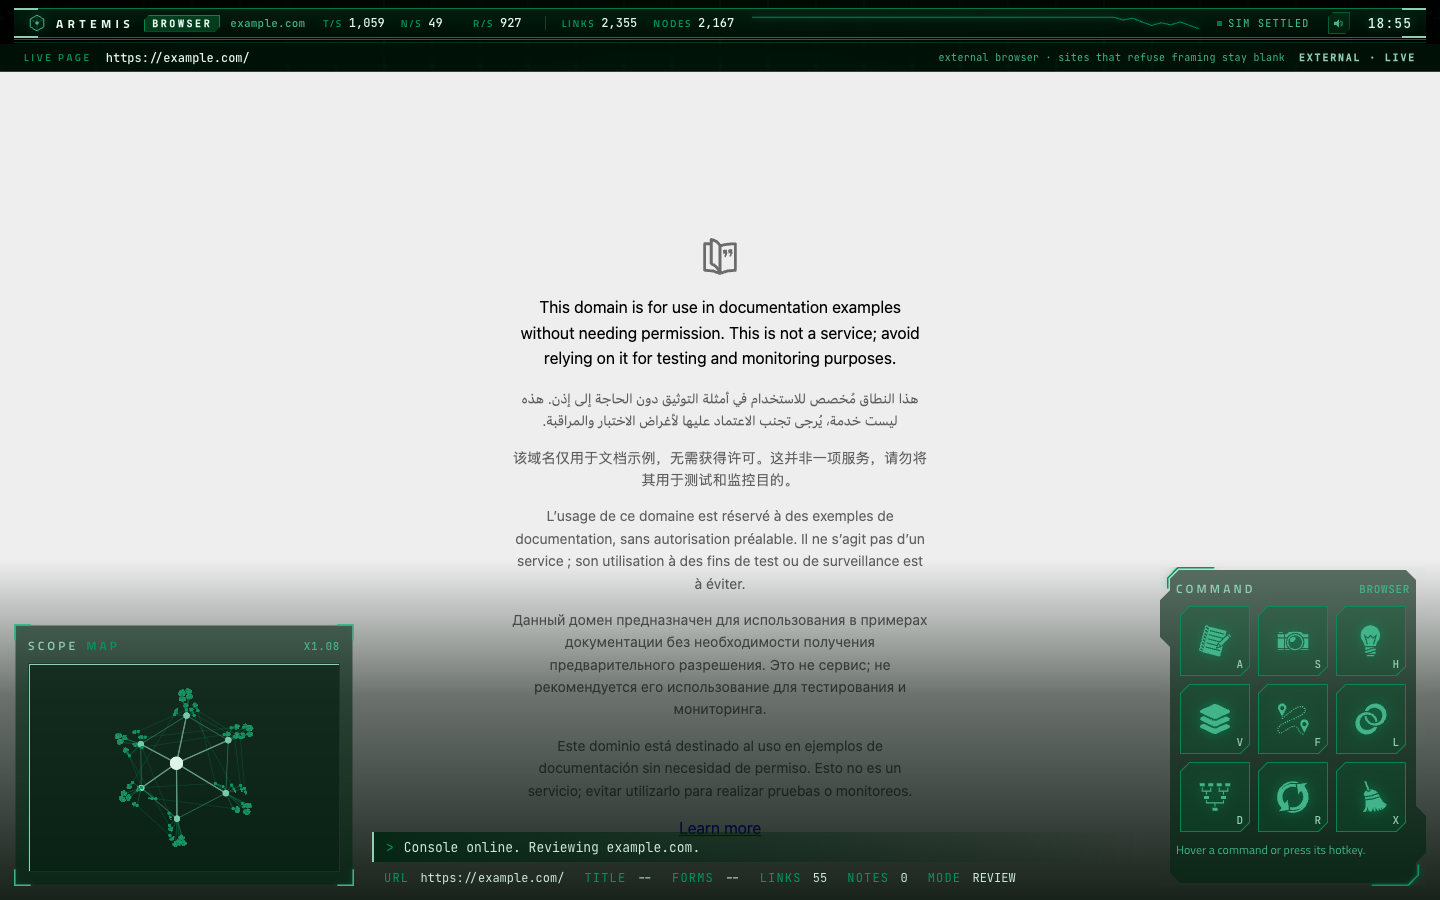
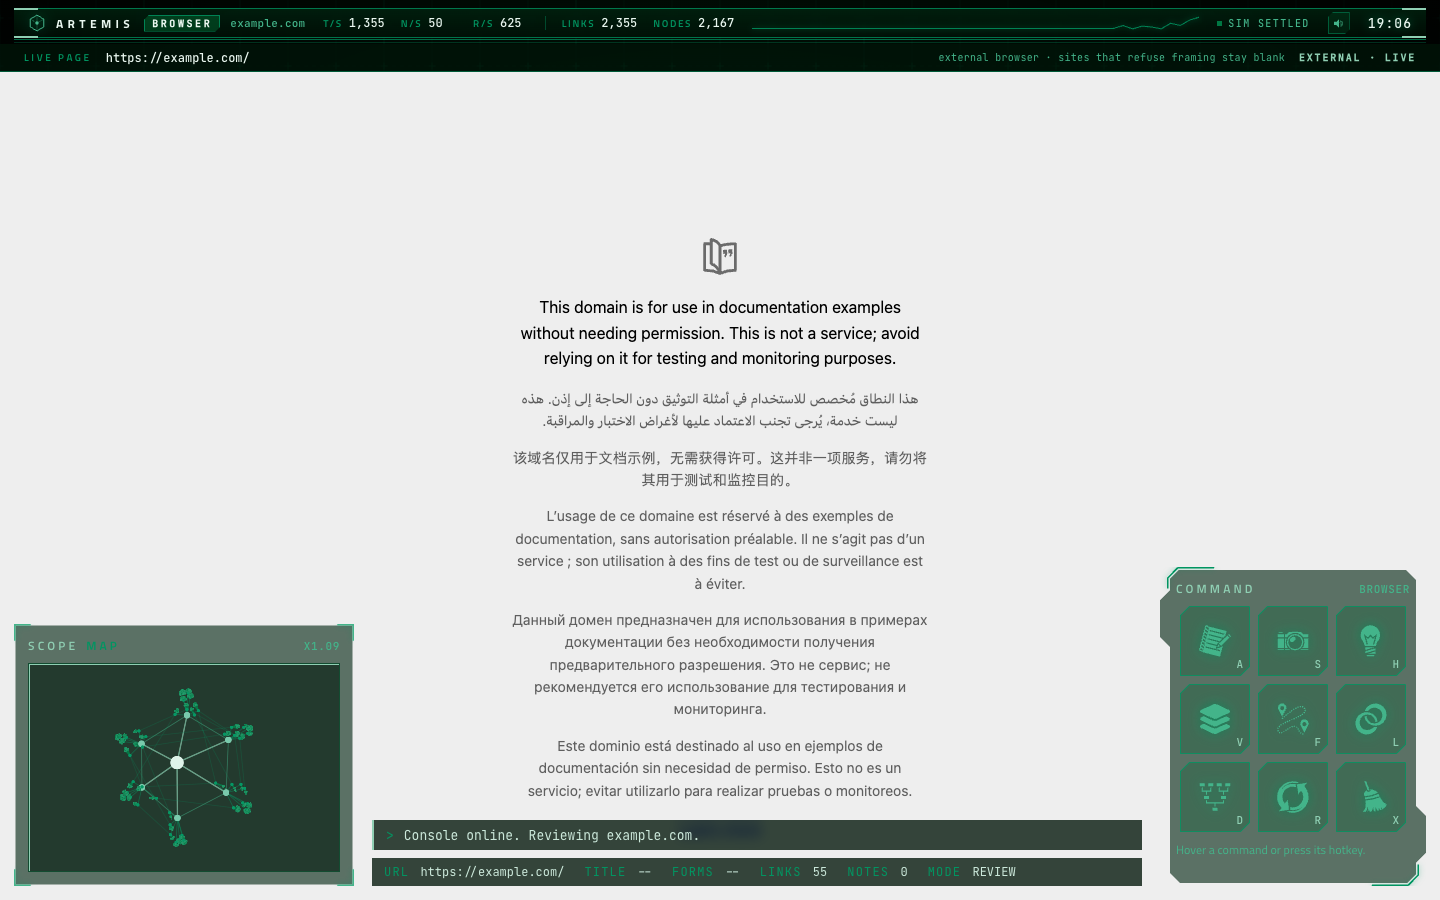
Browser view: no scrim over the page; framed sites navigate
- remove the full-width bottom scrim; the console status/readouts get their own glass in the Browser view so the page beneath stays visible and usable
- owned browser frame agent: retarget _top/_parent/_blank links and forms (incl. <base target>) and window.open(_top) at the frame, since the sandbox blocks top navigation and sites switch to it when framed
- redirects for framed documents are replayed as frame navigations (Chromium does not route the follow-up request), carrying the redirect's cookies, so each hop is rewritten and the frame lands on the final address
- test: _top link, _blank link through a 302, no extra window; verified on google.com (Gmail link through two redirects)

Changed region(s): [[0.0, 0.6533, 1.0, 1.0], [0.7812, 0.0, 0.8125, 0.0311]]

diff --git a/server/owned-browser.ts b/server/owned-browser.ts
@@ -58,8 +58,23 @@ export async function unframe(route: Route, request: Request): Promise<void> {
   }
   if (!inSubFrame) return route.continue();
 
-  const response = await route.fetch();
+  // Redirects: Chromium does not send the request that follows a redirect back through this
+  // handler, so the final page would arrive unrewritten and be blocked. Instead answer the hop
+  // with a page that performs the redirect itself (keeping any cookies the redirect set); the
+  // follow-up is then a fresh navigation this handler sees.
+  const response = await route.fetch({ maxRedirects: 0 });
   const headers = response.headers();
+  if (headers['set-cookie']) {
+    headers['set-cookie'] = headers['set-cookie'].split('\n').map(crossSiteCookie).join('\n');
+  }
+  if (response.status() >= 300 && response.status() < 400 && headers['location']) {
+    const target = new URL(headers['location'], request.url()).href;
+    const hop: Record<string, string> = { 'content-type': 'text/html; charset=utf-8', 'cache-control': 'no-store' };
+    if (headers['set-cookie']) hop['set-cookie'] = headers['set-cookie'];
+    const safe = target.replace(/[&<>"']/g, (c) => `&#${c.charCodeAt(0)};`);
+    const body = `<!doctype html><meta charset="utf-8"><script>location.replace(${JSON.stringify(target)})</script><noscript><meta http-equiv="refresh" content="0; url=${safe}"></noscript>`;
+    return route.fulfill({ status: 200, headers: hop, body });
+  }
   delete headers['x-frame-options'];
   for (const name of ['content-security-policy', 'content-security-policy-report-only']) {
     if (headers[name] !== undefined) {
@@ -67,9 +82,6 @@ export async function unframe(route: Route, request: Request): Promise<void> {
       if (stripped) headers[name] = stripped;
       else delete headers[name];
     }
-  }
-  if (headers['set-cookie']) {
-    headers['set-cookie'] = headers['set-cookie'].split('\n').map(crossSiteCookie).join('\n');
   }
   await route.fulfill({ response, headers });
 }
@@ -81,12 +93,32 @@ export const withOwnedFlag = (appUrl: string): string => {
 };
 
 /**
- * Runs in every frame of the owned browser. Inside the framed website (not the top-level console)
- * it forwards plain hotkeys to the console, except while the person is typing in a field, so V and
+ * Runs in every frame of the owned browser; does nothing in the top-level console.
+ *
+ * Navigation: a site that notices it is framed often aims its links at the top window
+ * (`target="_top"`, `<base target>`, `window.open(url, '_top')`), which the sandbox blocks because
+ * it would replace the console. Those, and `target="_blank"` links that would open a window
+ * outside the console, are retargeted at the frame itself. Plain `window.open` popups are left alone.
+ *
+ * Hotkeys: plain key presses (not while typing in a field) are forwarded to the console, so V and
  * the other commands keep working after clicking into the page. The page still receives the key.
  */
-export const FRAME_KEY_FORWARDER = `(() => {
+export const FRAME_AGENT = `(() => {
   if (window.top === window) return;
+  const ESCAPING = new Set(['_top', '_parent', '_blank']);
+  const effectiveTarget = (el) => el.getAttribute('target') || document.querySelector('base[target]')?.getAttribute('target') || '';
+  const retarget = (e) => {
+    const el = e.target && e.target.closest ? e.target.closest('a[href], area[href], form') : null;
+    if (el && ESCAPING.has(effectiveTarget(el))) el.setAttribute('target', '_self');
+  };
+  window.addEventListener('click', retarget, true);
+  window.addEventListener('auxclick', retarget, true);
+  window.addEventListener('submit', retarget, true);
+  const open = window.open;
+  window.open = function (url, target, features) {
+    if (target === '_top' || target === '_parent') { if (url) location.assign(String(url)); return null; }
+    return open.call(window, url, target, features);
+  };
   window.addEventListener('keydown', (e) => {
     if (e.metaKey || e.ctrlKey || e.altKey || e.repeat) return;
     const t = e.target;
@@ -109,7 +141,7 @@ export async function ownBrowser(o: OwnBrowserOptions): Promise<OwnedBrowser> {
     ignoreDefaultArgs: ['--enable-automation']
   });
   await context.route('**/*', unframe);
-  await context.addInitScript(FRAME_KEY_FORWARDER);
+  await context.addInitScript(FRAME_AGENT);
 
   let page: Page;
   if (headless) {

diff --git a/tests/owned-browser.test.ts b/tests/owned-browser.test.ts
@@ -9,7 +9,9 @@ import { startVite, type ViteServer } from './vite';
 // A fixture "website" on localhost (cross-site to the app on 127.0.0.1).
 //   /open/      frames freely
 //   /locked/    refuses framing (X-Frame-Options + CSP frame-ancestors) and sets a SameSite=Lax
-//               session cookie; /locked/second reports whether that cookie came back.
+//               session cookie; /locked/second reports whether that cookie came back. Like a real
+//               site that notices it is framed, it also carries links that target the top window
+//               and a new tab, and /locked/go redirects to /locked/second?via=go.
 const site = Bun.serve({
   hostname: 'localhost',
   port: 0,
@@ -18,7 +20,7 @@ const site = Bun.serve({
     const html = (body: string) => `<!doctype html><title>Fixture</title><body style="font:20px sans-serif">${body}</body>`;
     if (url.pathname === '/open/') return new Response(html('<h1>Fixture site</h1><p>open</p>'), { headers: { 'content-type': 'text/html' } });
     if (url.pathname === '/locked/') {
-      return new Response(html('<h1>Fixture site</h1><a href="/locked/second">second page</a>'), {
+      return new Response(html('<h1>Fixture site</h1><a href="/locked/second">second page</a> <a href="/locked/second" target="_top">top link</a>'), {
         headers: {
           'content-type': 'text/html',
           'x-frame-options': 'DENY',
@@ -27,9 +29,11 @@ const site = Bun.serve({
         }
       });
     }
+    if (url.pathname === '/locked/go') return Response.redirect(`${url.origin}/locked/second?via=go`, 302);
     if (url.pathname === '/locked/second') {
       const has = (req.headers.get('cookie') ?? '').includes('session=abc');
-      return new Response(html(`<h1>Second</h1><p>cookie: ${has ? 'yes' : 'no'}</p>`), {
+      const via = url.searchParams.get('via');
+      return new Response(html(`<h1>Second</h1><p>cookie: ${has ? 'yes' : 'no'}</p>${via ? `<p>via: ${via}</p>` : ''}<a href="/locked/go" target="_blank">new tab link</a>`), {
         headers: { 'content-type': 'text/html', 'x-frame-options': 'DENY', 'content-security-policy': "frame-ancestors 'none'" }
       });
     }
@@ -138,6 +142,33 @@ describe('the browser view shows the real website', () => {
       await page.keyboard.press('v');
       await page.waitForFunction('window.__artemis().view === "page"', null, { timeout: 4000 });
       expect(await page.locator('.cmd-hint').textContent()).not.toContain('Keyboard is in the page');
+    } finally {
+      await owned.close();
+    }
+  }, 45000);
+
+  test('in the owned browser, links aimed at the top window or a new tab, and redirects, stay inside the frame', async () => {
+    const owned = await ownBrowser({ appUrl: vite.url, userDataDir: profileDir, headless: true, width: 1440, height: 900 });
+    try {
+      const { page, context } = owned;
+      await page.waitForLoadState('networkidle');
+      await engageWith(page, `${siteUrl}/locked/`);
+      const frame = page.frameLocator('.browser-surface iframe');
+      await frame.getByText('Fixture site').waitFor({ timeout: 10000 });
+
+      // target="_top" would replace the console (the sandbox blocks it); it must navigate the frame.
+      await frame.getByRole('link', { name: 'top link' }).click();
+      await frame.getByText('cookie: yes').waitFor({ timeout: 10000 });
+      expect(page.url()).toContain(vite.url);
+      expect(await page.locator('.app').count()).toBe(1);
+
+      // target="_blank" would open a window outside the console; a redirect must land on the final
+      // address, not show the final page under the redirecting URL.
+      await frame.getByRole('link', { name: 'new tab link' }).click();
+      await frame.getByText('via: go').waitFor({ timeout: 10000 });
+      const siteFrame = page.frames().find((f) => f.url().startsWith(siteUrl));
+      expect(siteFrame?.url()).toBe(`${siteUrl}/locked/second?via=go`);
+      expect(context.pages().length).toBe(1);
     } finally {
       await owned.close();
     }

diff --git a/src/styles.css b/src/styles.css
@@ -102,30 +102,13 @@ kbd {
 }
 
 /* The website fills the stage from under the header to the bottom edge; the bottom panels float
-   over it. A scrim keeps the bottom HUD legible over any page. */
+   over it, each on its own glass, so the page beneath stays visible and usable. */
 .stage .browser-surface {
   position: absolute;
   inset: 44px 0 0;
   z-index: 2;
   display: flex;
   flex-direction: column;
-}
-
-.stage[data-shown='browser']::after {
-  content: '';
-  position: absolute;
-  left: 0;
-  right: 0;
-  bottom: 0;
-  height: 340px;
-  z-index: 3;
-  pointer-events: none;
-  background: linear-gradient(
-    180deg,
-    transparent 0%,
-    color-mix(in srgb, var(--bg) 55%, transparent) 40%,
-    color-mix(in srgb, var(--bg) 90%, transparent) 100%
-  );
 }
 
 /* Address strip: glass over the top of the page. */
@@ -729,6 +712,17 @@ kbd {
 
 .console-readout .is-armed {
   color: var(--alert);
+}
+
+/* Over the live page the console text needs its own backing; the panels already have theirs. */
+.app[data-view='browser'] .console-status,
+.app[data-view='browser'] .console-readout {
+  background: color-mix(in srgb, var(--bg2) 78%, transparent);
+  backdrop-filter: blur(6px);
+}
+
+.app[data-view='browser'] .console-readout {
+  padding: 6px 12px;
 }
 
 .tabstrip {

diff --git a/README.md b/README.md
@@ -99,15 +99,15 @@ command card then says "Keyboard is in the page. Click the console to use hotkey
 - `tests/controller.test.ts` — view/lens state, transition lifecycle, Focus absorbing Vision (real controller, fake GPU boundary).
 - `tests/commands.test.ts` — nine commands per view with A/S/V fixed, Depth and Route, Page subgraph (BFS) and framing, minimap context.
 - `tests/integration.test.ts` — real Chromium against an isolated Vite server: the entry screen refuses to start without a website and carries the address into the console; Engage lands in the Browser view; V walks Browser -> Page -> Cosmos -> Browser, palette variables change, command card and tab strip swap, the stage shows the old view until the midpoint, reduced motion still completes, lenses keep working.
-- `tests/owned-browser.test.ts` — CSP/cookie rewriting; a framable site goes live in an ordinary browser and fills the stage edge to edge; clicking into the page shows the keyboard hint there; a site refusing framing stays blank in an ordinary browser and works, with its session, in the owned browser, where `V` still switches views with the keyboard inside the page.
+- `tests/owned-browser.test.ts` — CSP/cookie rewriting; a framable site goes live in an ordinary browser and fills the stage edge to edge; clicking into the page shows the keyboard hint there; a site refusing framing stays blank in an ordinary browser and works, with its session, in the owned browser, where `V` still switches views with the keyboard inside the page. Links aimed at the top window or a new tab, and redirects, stay inside the frame and land on the final address with no extra window.
 
 ## Browser view: the real website
 
 The website under review loads in a sandboxed `<iframe>` (no `allow-top-navigation`, so a
 frame-busting site cannot take over the console) that fills the stage edge to edge, from a glass
 address strip under the header down to the bottom of the screen; the bottom panels float over the
-page on a soft scrim that keeps them legible. The strip shows the address and the state:
-`EXTERNAL` or `OWNED`, then `CONNECTING` / `LIVE`.
+page, each on its own glass, so the page stays visible and usable around them. The strip shows the
+address and the state: `EXTERNAL` or `OWNED`, then `CONNECTING` / `LIVE`.
 
 - **External browser** (`bun run dev`, your own Chrome): works for sites that allow framing;
   sites sending `X-Frame-Options` or CSP `frame-ancestors` stay blank, and a footnote says so.
@@ -115,9 +115,13 @@ page on a soft scrim that keeps them legible. The strip shows the address and th
   Chromium that Playwright launches (`server/owned-browser.ts`, profile in `data/browser-profile`).
   For documents loaded into sub-frames Playwright removes `X-Frame-Options` and `frame-ancestors`
   and rewrites `Set-Cookie` to `SameSite=None; Secure`, so any site can be framed and keeps its
-  session while you click through it. Artemis's own requests are untouched. The same Playwright
-  page will provide the DOM, element rectangles, forms and network activity for annotations and
-  flows.
+  session while you click through it. Artemis's own requests are untouched. A small agent runs in
+  every frame of the site: links and forms aimed at the top window or a new tab (`target="_top"`,
+  `_parent`, `_blank`, `<base target>`, `window.open(url, '_top')`), which sites use once they
+  notice they are framed, are retargeted at the frame itself; redirects are replayed as frame
+  navigations so each hop is rewritten and the frame ends on the final address. The same
+  Playwright page will provide the DOM, element rectangles, forms and network activity for
+  annotations and flows.
 
 Proof (`tests/owned-browser.test.ts`): a fixture site that refuses framing and sets a
 `SameSite=Lax` session cookie stays blank in an ordinary browser, and in the owned browser is
